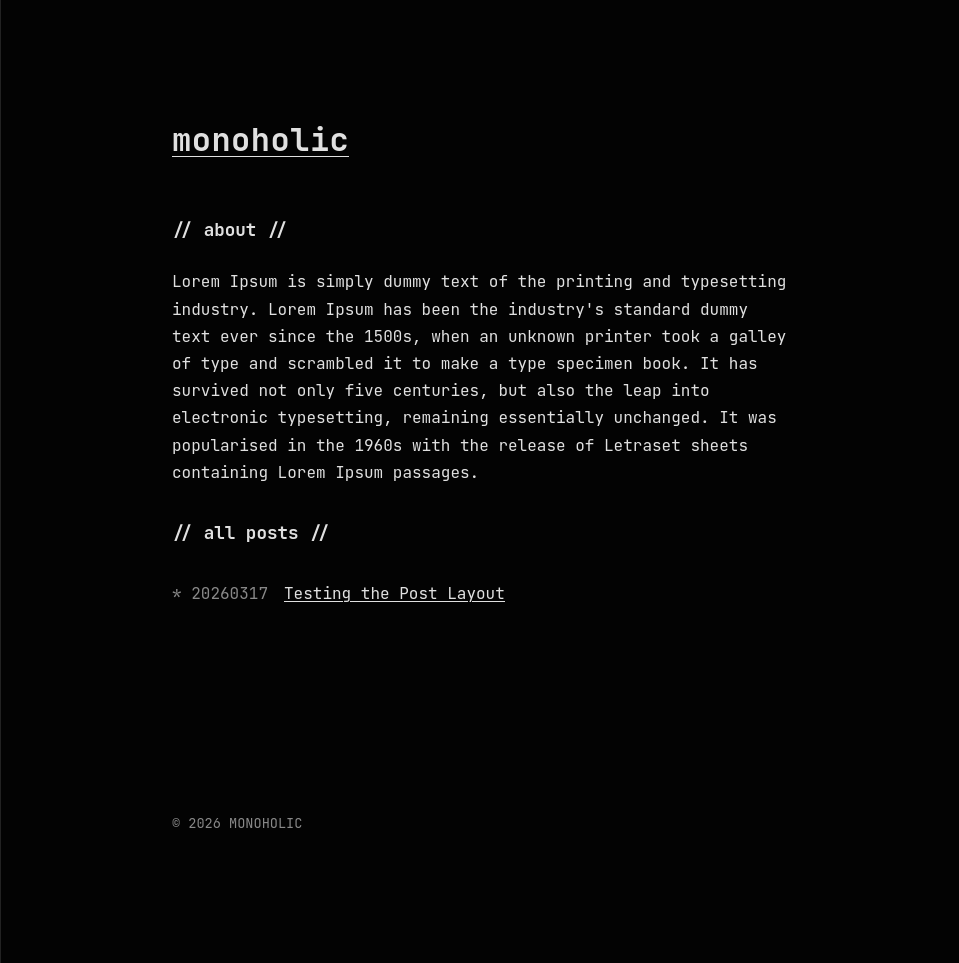
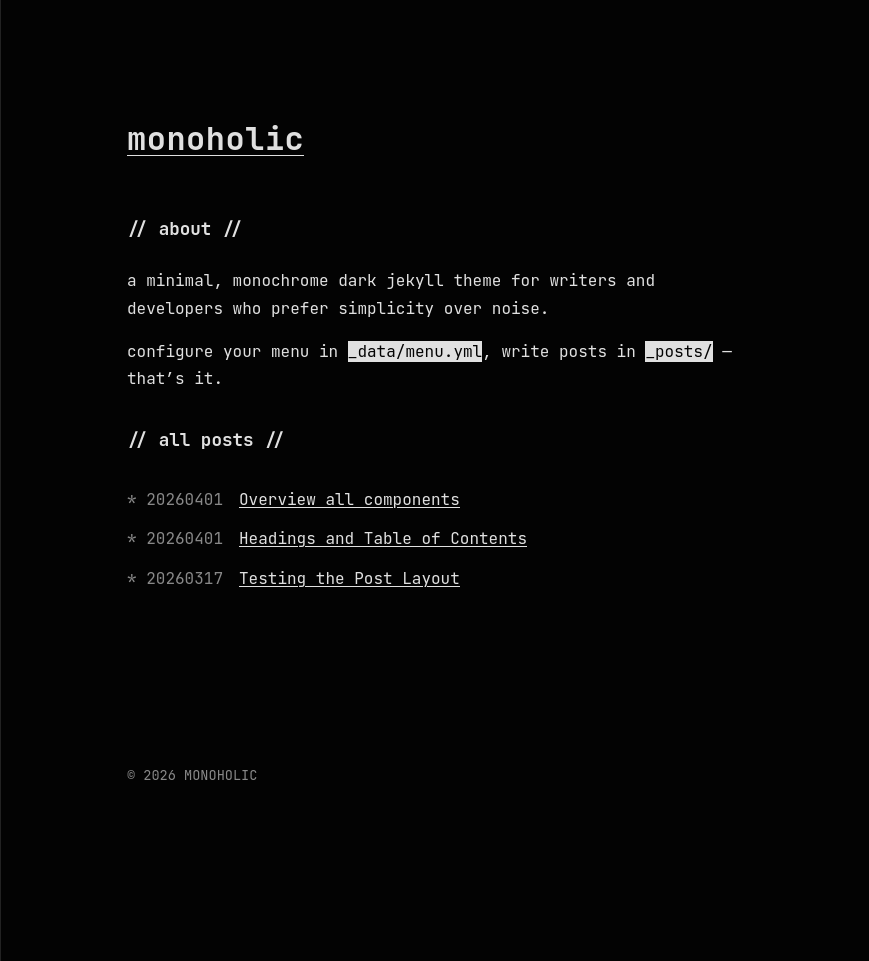
docs: streamline & update README

diff --git a/README.md b/README.md
@@ -14,13 +14,10 @@ A minimal, monochrome dark Jekyll theme🧪
 
 ## Features
 
-- **Minimalist Dark Aesthetic:** Sleek, high-contrast monochrome design out of the box.
-- **Data-Driven Menu:** Easily configure your site navigation via `_data/menu.yml`.
-- **Developer Friendly:** Code syntax highlighting and monospace typography (JetBrains Mono).
-- **Responsive Design:** Mobile-first layout with smooth fluid scaling using modern CSS.
-- **Customizable:** Centralized CSS variables for fast theming.
-- **SEO & RSS Ready:** Built-in support for `jekyll-seo-tag` and `jekyll-feed`.
-- **Per-Page Scripts:** Add specific JavaScript to individual pages seamlessly.
+- Minimalist dark monochrome design
+- Data-driven menu via `_data/menu.yml`
+- Optional grayscale image filter
+- SEO & RSS support
 
 ## Installation
 
@@ -68,6 +65,8 @@ Override the default settings in your `_config.yml`. Key theme configuration opt
 theme_config:
   back: ".." # Text for backlink on post pages
   date_format: "%Y%m%d" # Date format for post metadata
+  monochrome_images: true # Apply grayscale filter to images (default: false)
+  footer: true # Show/hide site footer (default: true)
 ```
 
 ### Menu Configuration
@@ -88,7 +87,20 @@ entries:
 
 - `title`: The section header.
 - `content`: Custom HTML or text for the menu section.
+- `content_file`: Path to an external markdown file (e.g., `about.md`) to load content from your root directory.
 - `post_list`: Set to `true` to auto-generate a list of your Jekyll posts under this section.
+
+#### Using External Content Files
+
+You can reference external markdown files instead of inline content:
+
+```yaml
+entries:
+  - title: about
+    content_file: about.md
+```
+
+This will load and render the content from `about.md` in your site's root directory.
 
 ## Contributing
 
